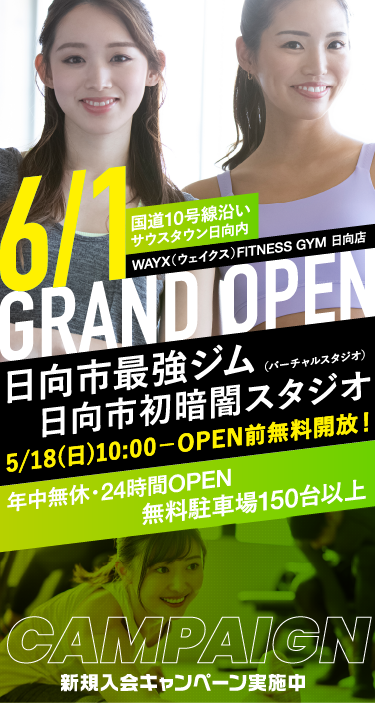
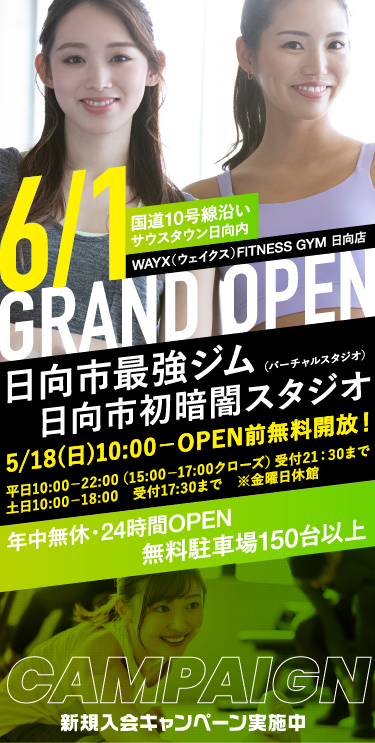
修正

diff --git a/hyuga/index.html b/hyuga/index.html
@@ -1207,12 +1207,14 @@ height="0" width="0" style="display:none;visibility:hidden"></iframe></noscript>
     </dl>
     <dl class="access-dl">
         <dt>営業時間</dt>
-        <dd>24時間営業<br>
-            スタッフタイム/<br>
-            平日：9:00～22:00<br>
-            土日祝：9:00～18:00<br>
+        <dd>プレオープン＆無料開放　期間特別営業時間<br>
+            平日10:00−22:00（15:00−17:00クローズ）受付21：30まで<br>
+            土日10:00−18:00　受付17:30まで　※金曜日休館<br>
             <br>
-            ノースタッフデー/金曜日
+            6/1グランドオープン後は下記になります<br>
+            営業時間：24時間営業<br>
+            スタッフタイム：平日：9:00～21:00/土日祝：9:00～18:00<br>
+            ノースタッフデー：金曜日
         </dd>
     </dl>
     <dl class="access-dl">
